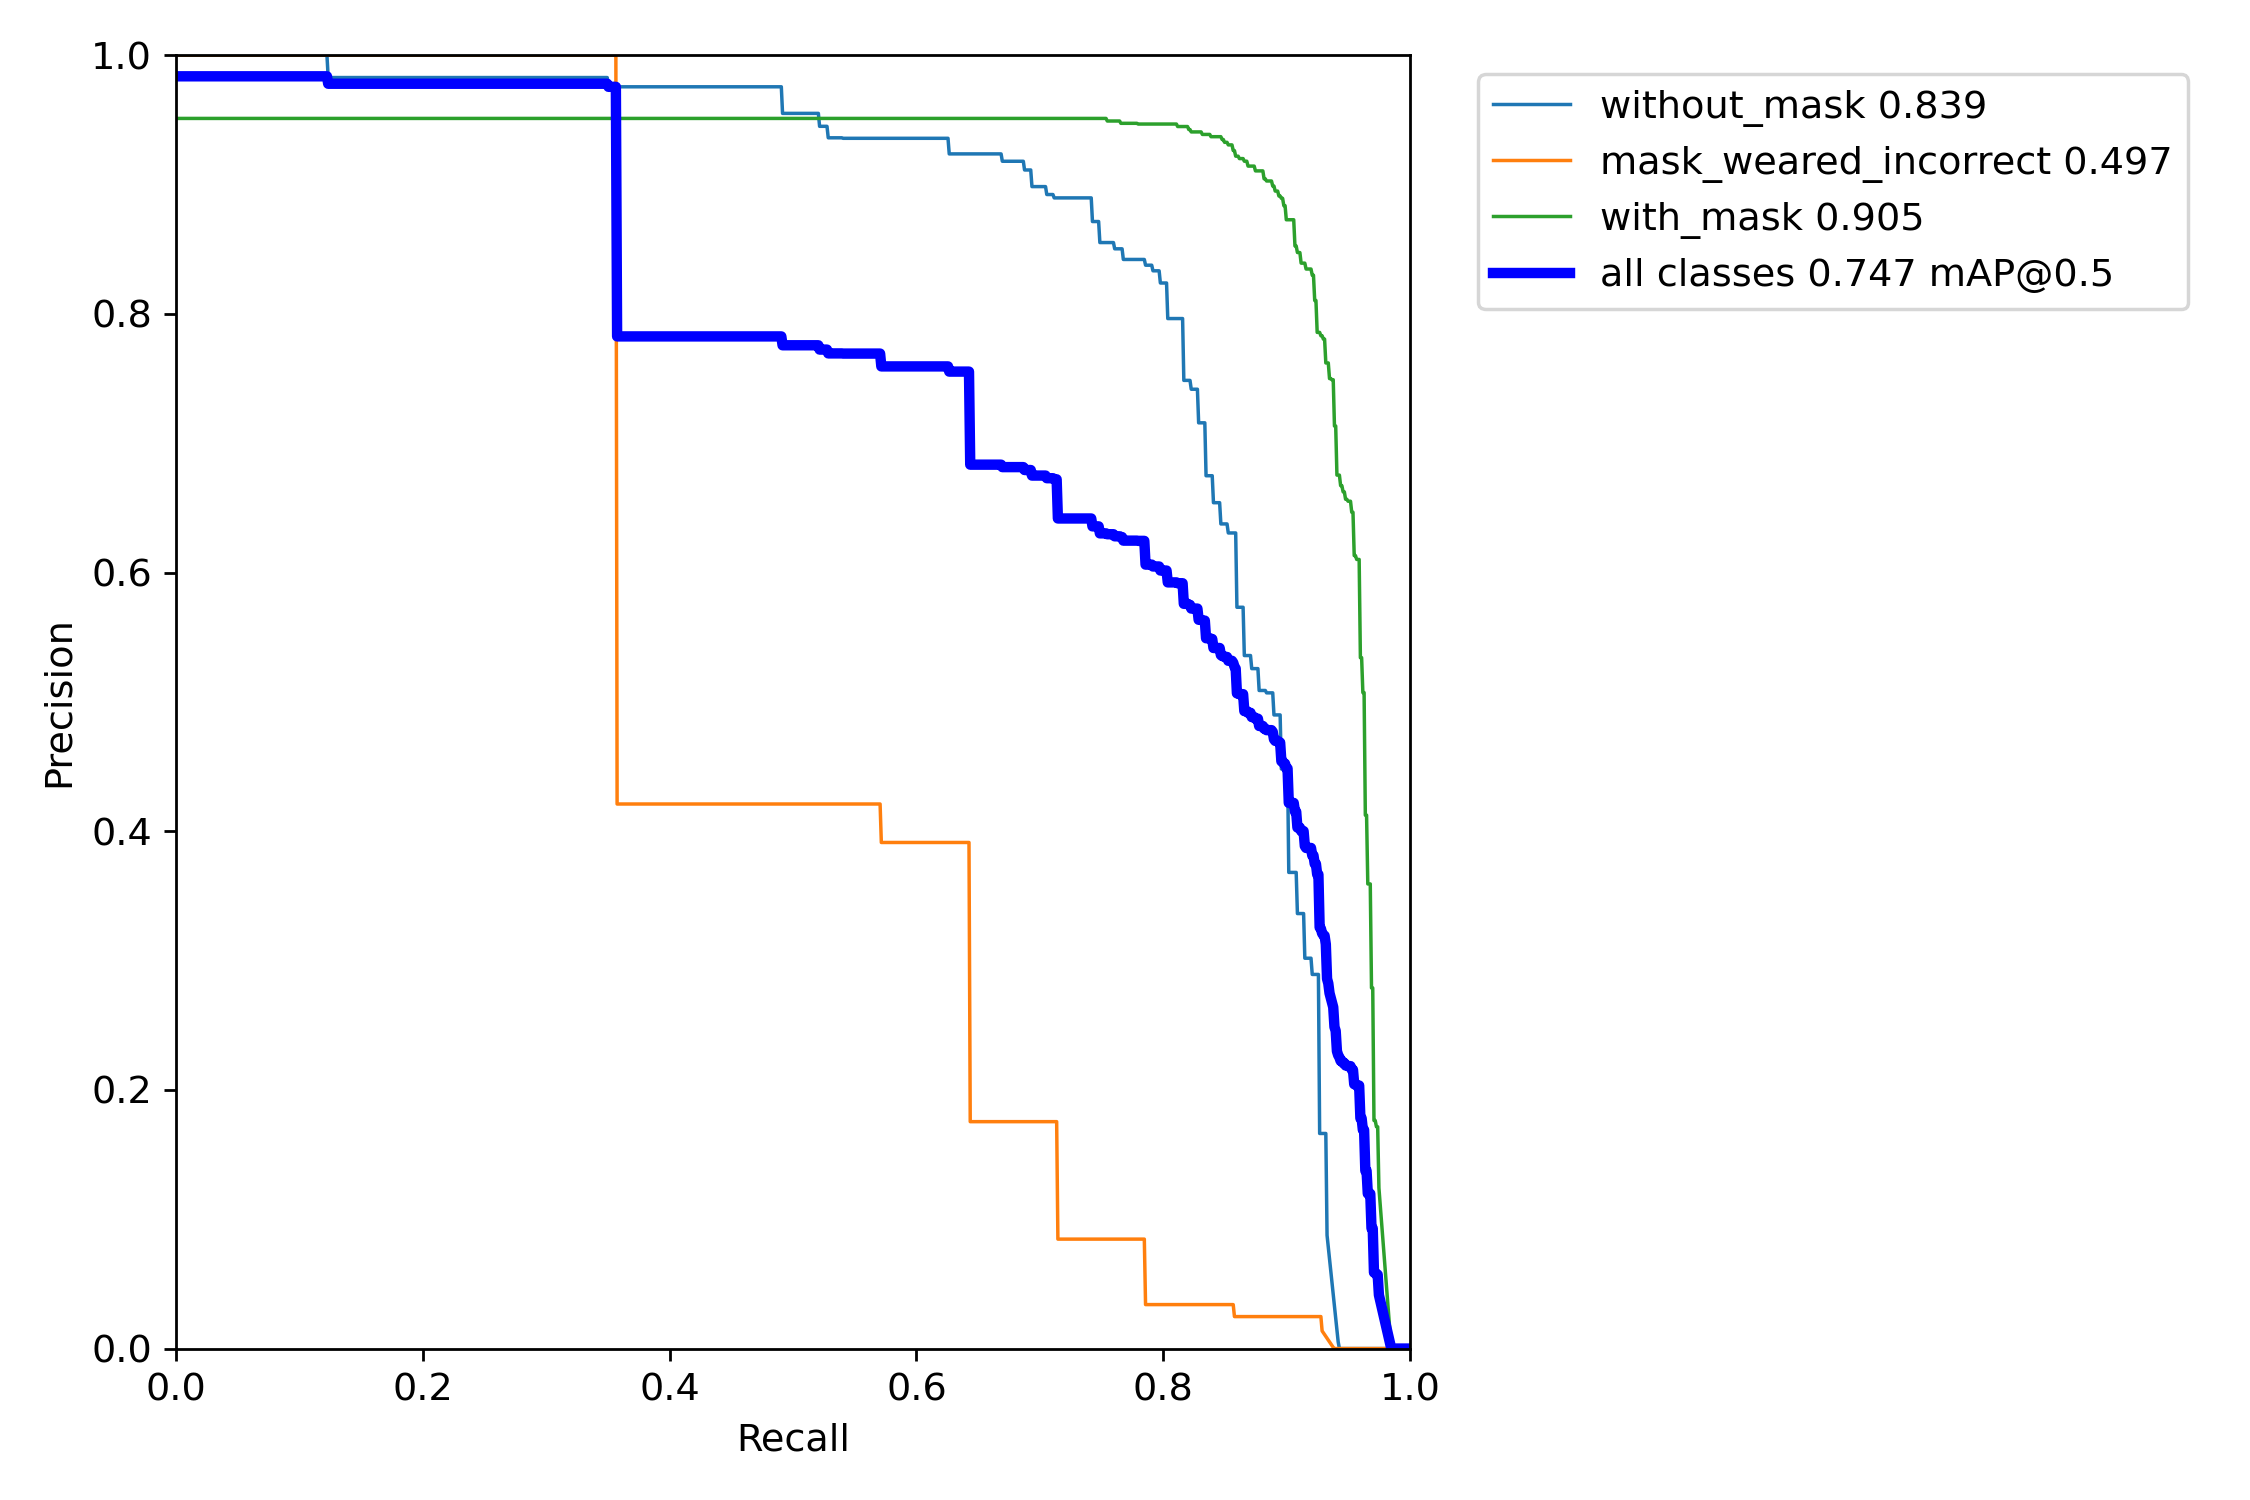
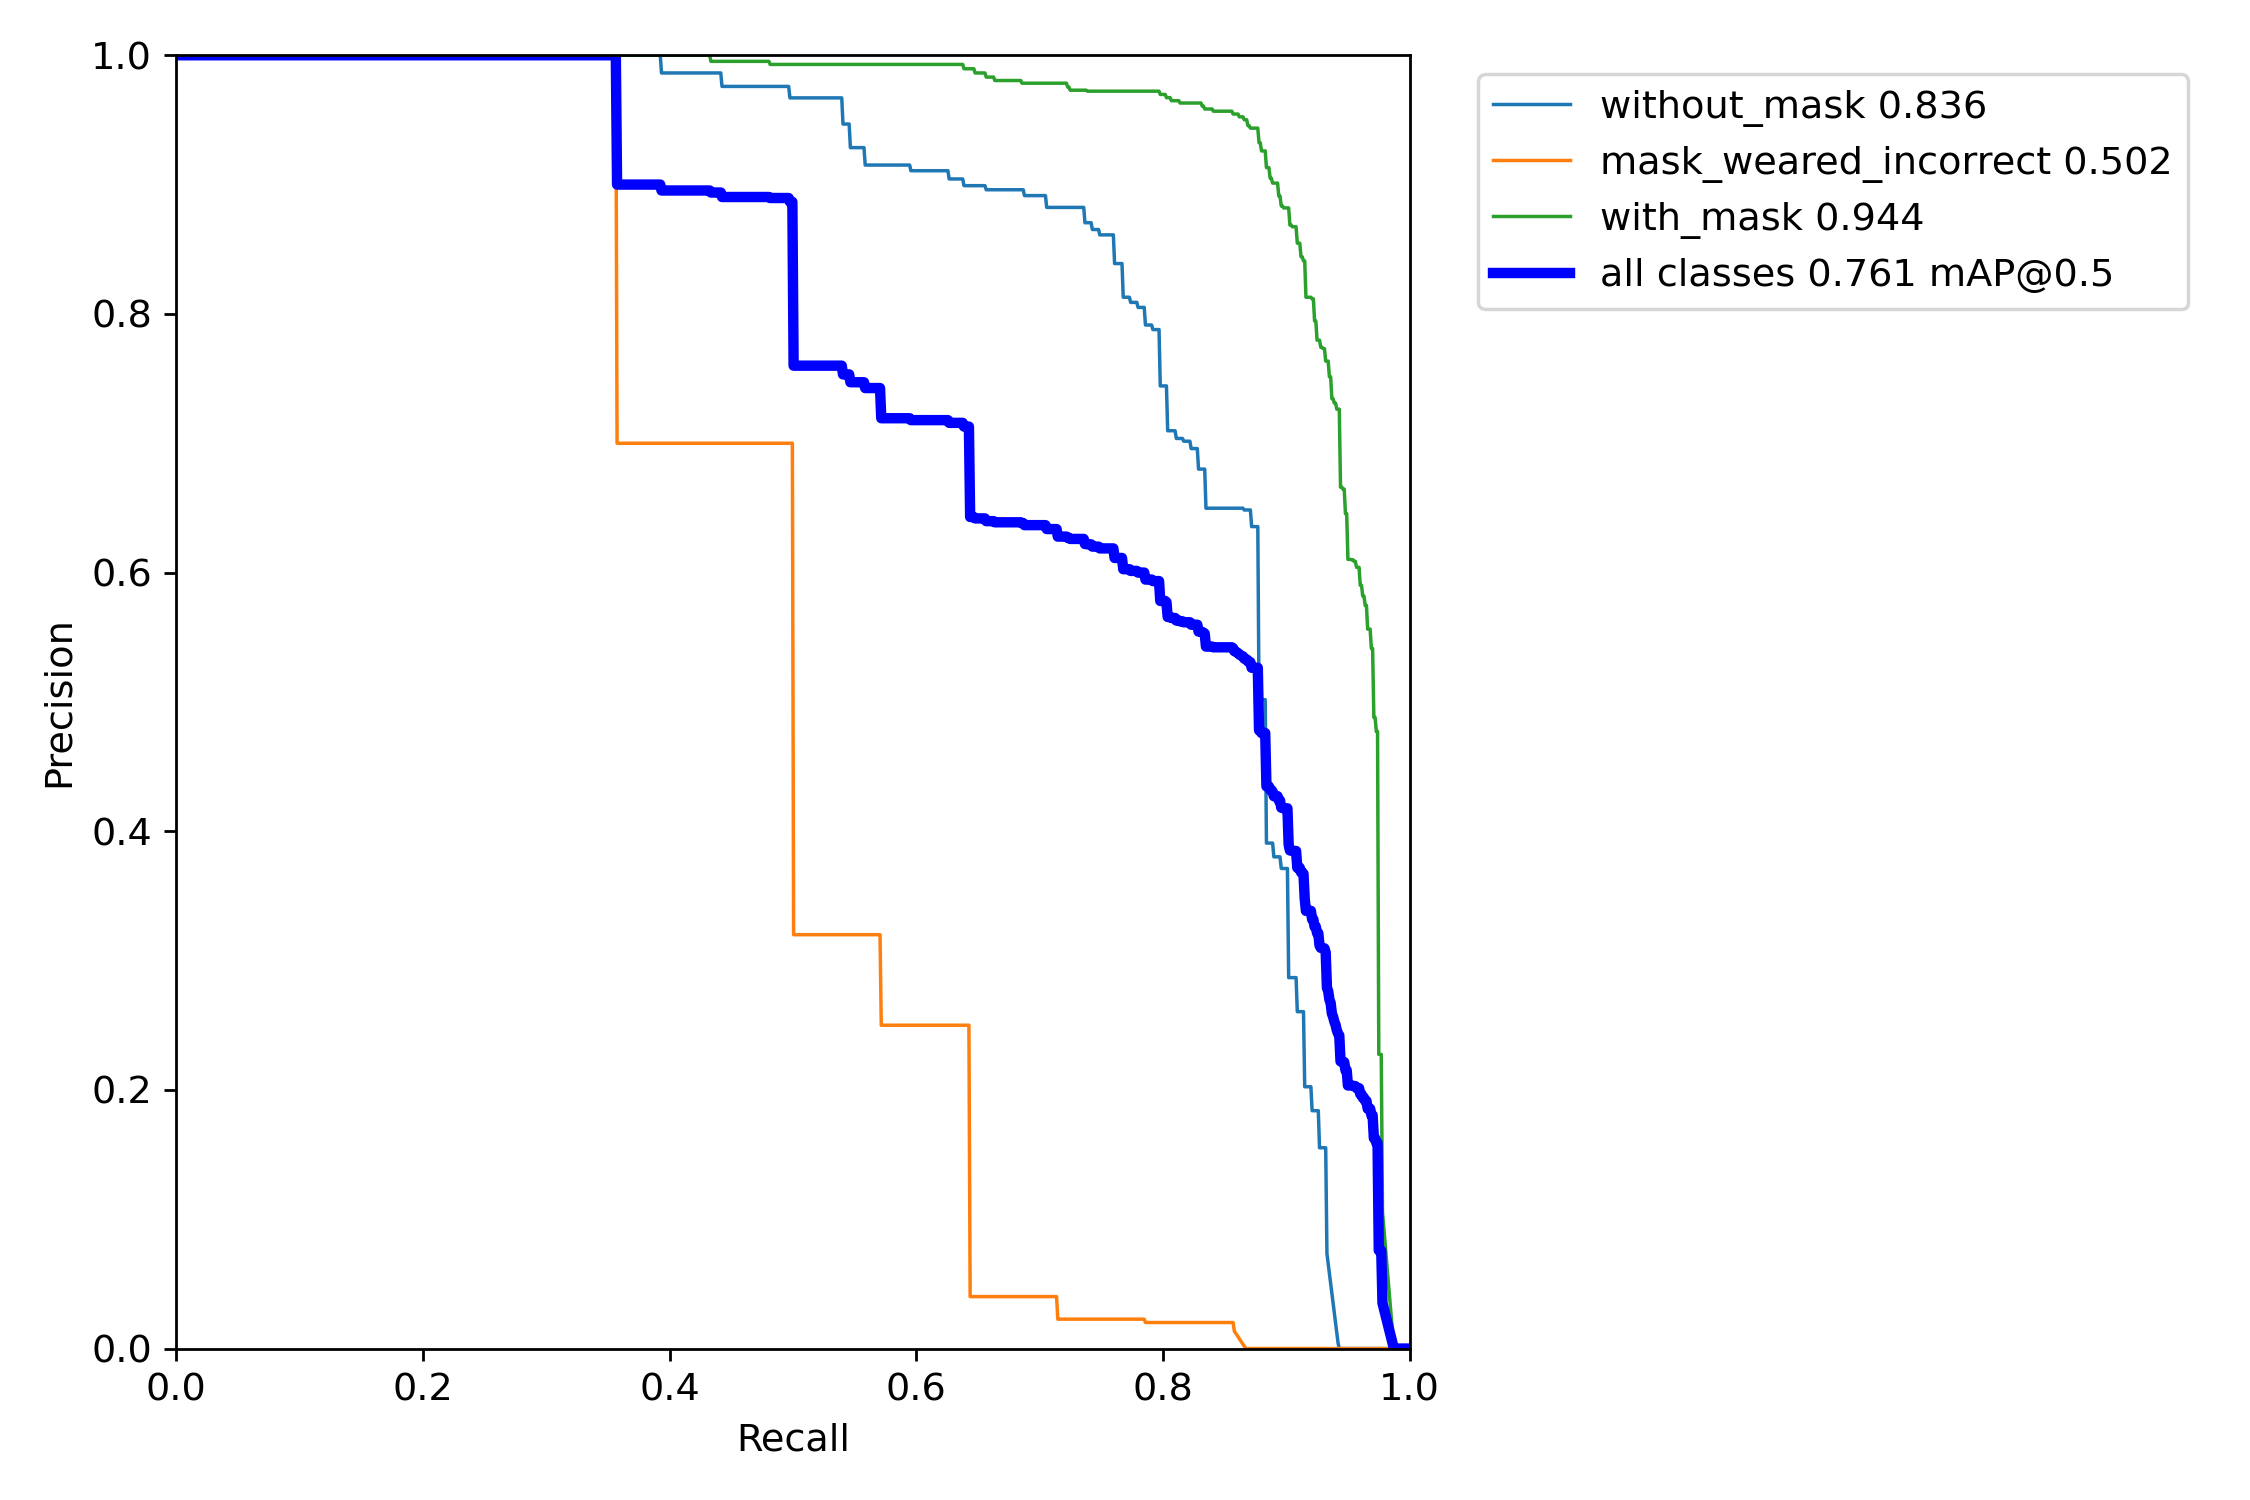
changes in face mask project

diff --git a/posts/1_facemask/index.html b/posts/1_facemask/index.html
@@ -38,7 +38,7 @@
 <meta itemprop="name" content="1. Web App: Face mask detection">
 <meta itemprop="description" content="Cmputer vision for face mask detection using Yolov7.">
 
-<meta itemprop="wordCount" content="298">
+<meta itemprop="wordCount" content="345">
 <meta itemprop="keywords" content="" /><meta name="twitter:card" content="summary"/>
 <meta name="twitter:title" content="1. Web App: Face mask detection"/>
 <meta name="twitter:description" content="Cmputer vision for face mask detection using Yolov7."/>
@@ -191,14 +191,15 @@
 <li>he unlabeled data were manually labelled using <a href="https://roboflow.com/"><em>roboflow</em></a>.</li>
 <li>After researching open-source object detection algorithms, I picked Yolov7. You can access the published paper <a href="https://arxiv.org/abs/2207.02696">here</a>.</li>
 <li>I trained the Yolov7 model on my custom data.</li>
-<li>The deployment was done on Streamlit Cloud services for user testing.</li>
+<li>Measure the model performance and collect new data to improve accuracy/recall. Example: the model was not performing well on incorrectly worn masks. Therefore, I collected and labelled new data from that class and retrained the model.</li>
+<li>After obtaining a well-performing model, the deployment was done on Streamlit Cloud services for user testing.</li>
 </ol>
 <h4 id="results">Results</h4>
-<p>The model obtained a mean average precision (mAP) of 0.747 on the held-out test dataset. The mAP of each class was:</p>
+<p>The model obtained a mean average precision (mAP) of 0.761 on the held-out test dataset. The mAP of each class was:</p>
 <ul>
-<li><em>With mask</em>: 0.905</li>
-<li><em>Without mask</em>: 0.839</li>
-<li><em>Mask worn incorrectly</em>: 0.497.</li>
+<li><em>With mask</em>: 0.944</li>
+<li><em>Without mask</em>: 0.836</li>
+<li><em>Mask worn incorrectly</em>: 0.502.</li>
 </ul>
 <p>So, the global mAP is pulled down by the class <em>mask worn incorrectly</em>. The precision-recall curve is shown below:</p>
 <figure><img src="https://ignavinuales.github.io/portfolio/Images/PR_curve.png" width="550"/>
@@ -210,7 +211,7 @@
 
 <h4 id="conclusion-and-further-work">Conclusion and further work</h4>
 <p>The model performs really well in less crowded places. It could easily be deployed on a building entrance to check if people entering are wearing masks and trigger an alert if they are not.</p>
-<p>Moreover, the model should be retrained using more data of people wearing masks <em>incorrectly</em>, as the mAP for such class was low.</p>
+<p>Moreover, the model should be retrained using even more data of people wearing masks <em>incorrectly</em>, as the mAP for such class was still low on the test data.</p>
 <hr>
 <p>Github : <a href="https://github.com/ignavinuales/facemask_deploy">Link to source code</a></p>
 <ul class="pa0">
